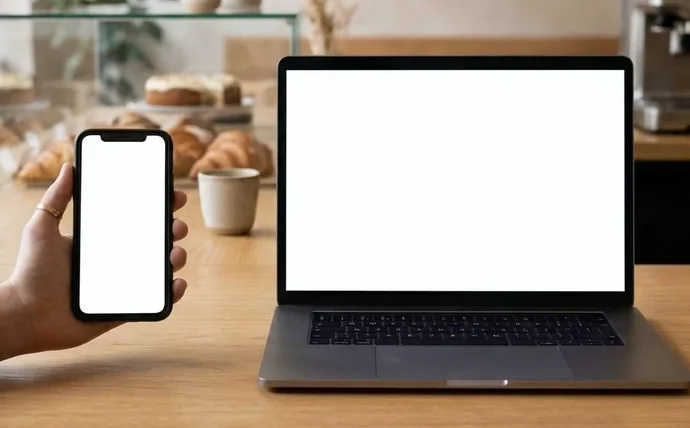
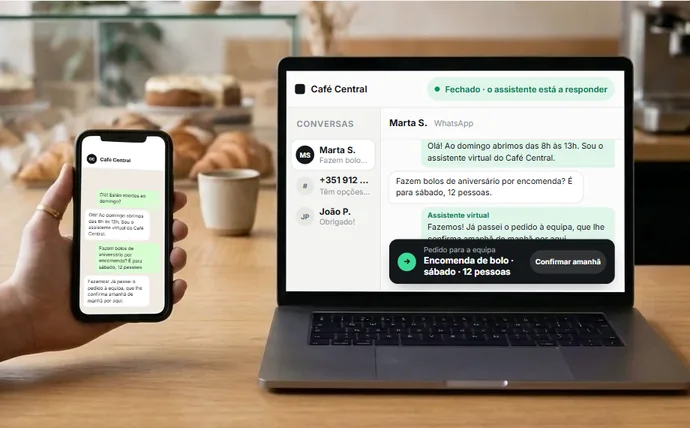
fix(atendimento): correções da revisão — 1.ª mensagem, sem JS, pausa, âncoras, SMS
- mensagens ainda por aparecer saem do fluxo (a 1.ª pergunta deixava de
  caber no portátil antes de ser revelada)
- foto base com a conversa já desenhada nos ecrãs (PT/EN/ES): quem não
  tem JavaScript vê a demonstração
- botão para pausar/retomar a demonstração (WCAG 2.2.2)
- âncoras antigas (#problema, #confianca, #vantagens, #para-quem)
- SMS: clarifica o alcance da reserva (quem escreve por SMS tem resposta;
  os avisos da empresa saem por SMS)

diff --git a/src/i18n/es.ts b/src/i18n/es.ts
@@ -2562,7 +2562,7 @@ export const t: Copy = {
       lead: "No todos los clientes usan WhatsApp, y WhatsApp puede fallar. Un móvil Android de la empresa, con tarjeta SIM, garantiza que nadie se quede sin respuesta.",
       points: [
         { title: "Clientes sin WhatsApp", text: "Quien envía un SMS recibe la respuesta por SMS, con las mismas reglas y la misma ficha." },
-        { title: "Reserva si WhatsApp falla", text: "Si el WhatsApp de la empresa se cae o se bloquea, los avisos y las respuestas siguen por SMS." },
+        { title: "Reserva si WhatsApp falla", text: "Si el WhatsApp de la empresa se cae o se bloquea, quien escriba por SMS sigue teniendo respuesta, y los avisos que la empresa envía a los clientes salen por SMS." },
         { title: "Respuestas cortas", text: "Por SMS, el asistente responde en pocas líneas, sin emojis ni enlaces innecesarios." },
         { title: "Avisos al equipo", text: "Los pedidos que pasan a una persona llegan al equipo por email o por WhatsApp a su móvil." },
       ],

diff --git a/src/i18n/pt.ts b/src/i18n/pt.ts
@@ -2588,7 +2588,7 @@ export const t = {
       lead: "Nem todos os clientes usam WhatsApp, e o WhatsApp pode falhar. Um telemóvel Android da empresa, com cartão SIM, garante que ninguém fica sem resposta.",
       points: [
         { title: "Clientes sem WhatsApp", text: "Quem envia um SMS recebe a resposta por SMS, com as mesmas regras e a mesma ficha." },
-        { title: "Reserva se o WhatsApp falhar", text: "Se o WhatsApp da empresa cair ou for bloqueado, os avisos e as respostas continuam por SMS." },
+        { title: "Reserva se o WhatsApp falhar", text: "Se o WhatsApp da empresa cair ou for bloqueado, quem escrever por SMS continua a ter resposta, e os avisos que a empresa envia aos clientes saem por SMS." },
         { title: "Respostas curtas", text: "No SMS, o assistente responde em poucas linhas, sem emojis nem ligações desnecessárias." },
         { title: "Avisos à equipa", text: "Os pedidos passados a uma pessoa chegam por email ou por WhatsApp ao telemóvel da equipa." },
       ],

diff --git a/src/i18n/en.ts b/src/i18n/en.ts
@@ -2557,7 +2557,7 @@ export const t: Copy = {
       lead: "Not every customer uses WhatsApp, and WhatsApp can fail. A company Android phone with a SIM card makes sure nobody is left without an answer.",
       points: [
         { title: "Customers without WhatsApp", text: "Anyone who sends an SMS gets the answer by SMS, with the same rules and the same profile." },
-        { title: "Backup if WhatsApp fails", text: "If the company's WhatsApp goes down or gets blocked, notices and replies carry on by SMS." },
+        { title: "Backup if WhatsApp fails", text: "If the company's WhatsApp goes down or gets blocked, anyone who writes by SMS still gets an answer, and the notices the business sends to customers go out by SMS." },
         { title: "Short replies", text: "By SMS, the assistant answers in a few lines, without emojis or unnecessary links." },
         { title: "Alerts for the team", text: "Requests handed to a person reach the team by email or by WhatsApp on their phone." },
       ],
